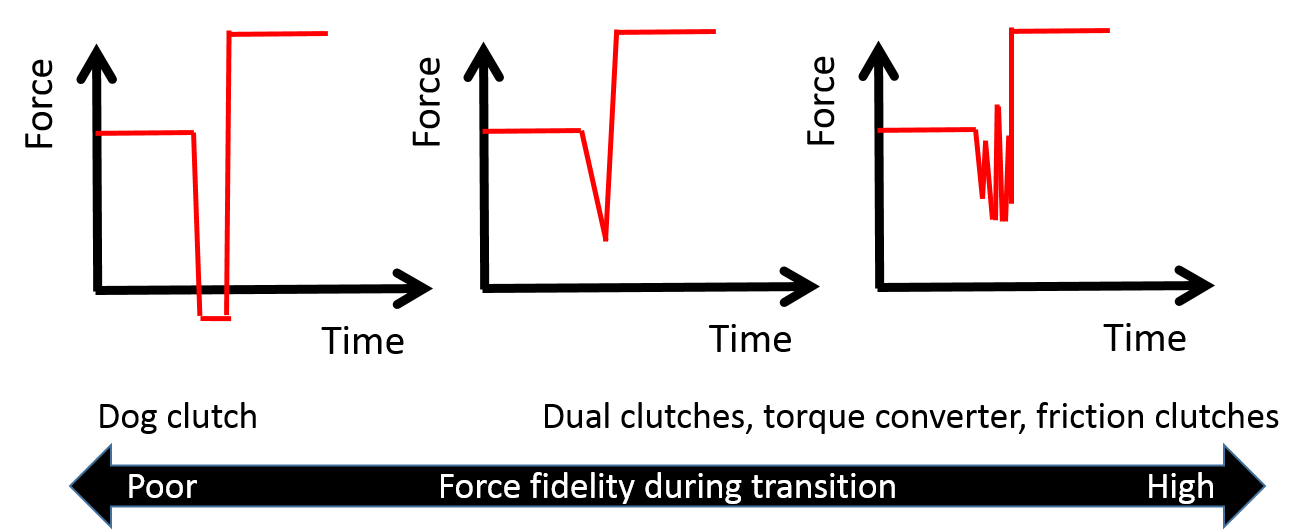
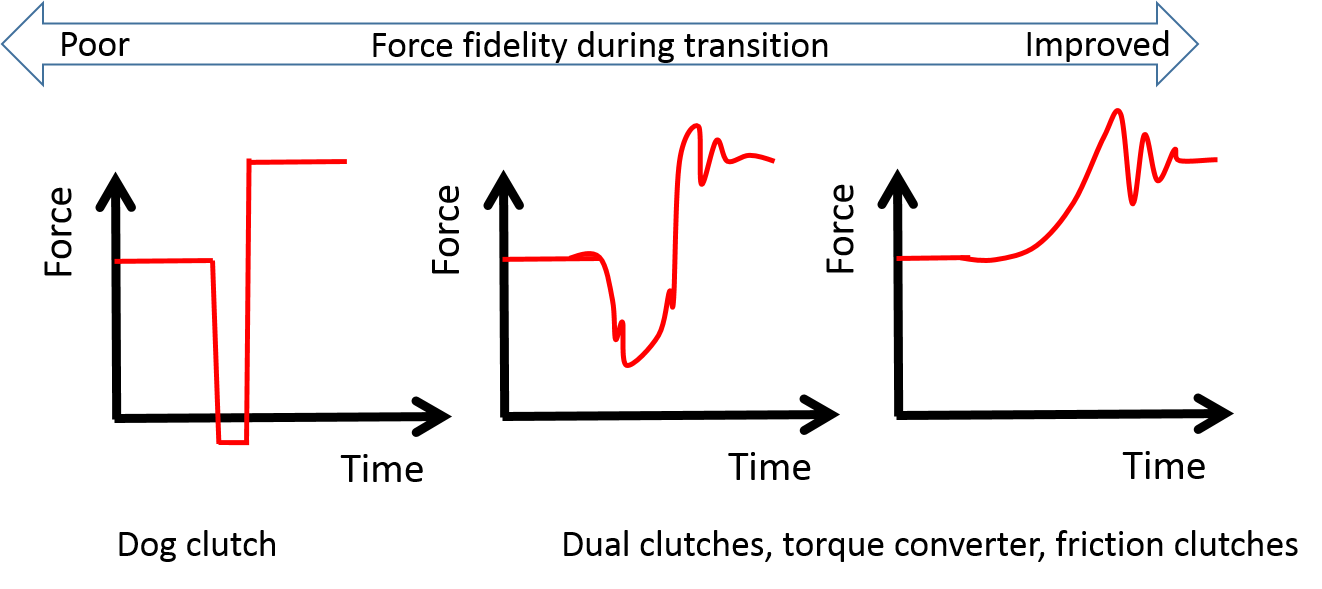
act research

diff --git a/src/actuation.tex b/src/actuation.tex
@@ -36,49 +36,48 @@ It will be a significant breakthrough if a type of multiple speed transmission c
 
 
 
-\section{Actuator Research}
+\section{Actuator and Powertrain Research}
 \label{sec:actres}
 
 \paragraph{Classical Actuators} Traditional robots generally use actuators that behave as displacement-sources because of their high intrinsic impedance. These include geared EM motors and hydraulics cylinders. Using a force sensor, it is possible to control the output force with this type of actuators, but the bandwidth is rather limited. To guarantee the stability of the force-feedback scheme only half the intrinsic inertia can be canceled \cite{hogan_impedance_2004}. Since 70's, roboticists have been attempting to build actuators that can behave naturally as a force-source such as series-elastic actuators, pneumatic cylinder and air-muscles \cite{hanafusa_stable_1977}\cite{pratt_series_1995}. However, because of the physical limitation of compliant transmission materials, the achievable bandwidth is limited and precise position control is hardly achievable. Direct drive EM actuators are the best force-source actuators with high fidelity, high bandwidth, and have been used for high-speed robots \cite{asada_direct-drive_1987} and more recently small legged robots \cite{kenneally_design_2016}. However, the very low force density \cite{hollerbach_comparative_1992} and low efficiency at low speeds make them impractical for most mobile robot applications, just holding a payload with static torques require continuous currents in the motors leading to a large energy consumption even though no mechanical work is done. 
 
-Regarding power-throughput, as discussed before and illustrated at Fig. \ref{fig:emcurve}, electromagnetic actuators are typically characterized by a flat force curve for most of their range of speed, leading to maximum power been only available at high velocity \cite{girard_two-speed_2015}. Fluidic actuator are typically characterized by a force curves droping quadratically with velocity (related to pressure losses in valves orifices), as illustrated at Fig. \ref{fig:fluidcurve}. All in all, EM and fluidic actuators cannot transmits their maximum power over their full range of speed, and variable transmission can make their power be available on a much wider range of speed.
+Regarding power-throughput, as briefly discussed before and illustrated at Fig. \ref{fig:emcurve}, electromagnetic actuators are typically characterized by a flat force curve for most of their range of speed, leading to maximum power been only available at high velocity \cite{girard_two-speed_2015}. Fluidic actuator are typically characterized by a force curves droping quadratically with velocity (related to pressure losses in valves orifices), as illustrated at Fig. \ref{fig:fluidcurve}. All in all, EM and fluidic actuators are not perfect power sources and could benefit from using variable transmissions to have their maximum power available on a much wider range of speed.
 
 \begin{figure}[htb]
         \centering
 				\subfloat[Electromagnetic transducer]{
-				\includegraphics[width=0.40\textwidth]{EM_curve.png}
+				\includegraphics[width=0.35\textwidth]{EM_curve.png}
 				\label{fig:emcurve}
 				}
         \subfloat[Fluidic transducer]{
-				\includegraphics[width=0.40\textwidth]{fluid_curve.png}
+				\includegraphics[width=0.35\textwidth]{fluid_curve.png}
 				\label{fig:fluidcurve}
 				}
         \caption{Typical force-speed curve of actuators}\label{fig:powercurves}
 \end{figure}
 
-Some advance electric motor systems can extend their operation at high-speed by weakening the magnetic flux. Such motors can thus transmit their maximum power over a wider range of speed than basic DC motors, see Fig. \ref{fig:EM_fluxweakening}. However, this clever electromagnetic scheme cannot go around the fundamental force saturation at low-speed, which is limited by material properties. Hence, there is still a big advantage of using multiple gear-ratio for this kind of advance motor (see Fig. \ref{fig:EM_two}). 
+Some advance electric motor systems can extend their operation at high-speed by weakening the magnetic flux. Such motors can thus transmit their maximum power over a wider range of speed than basic DC motors, see Fig. \ref{fig:EM_fluxweakening}. However, this clever electromagnetic scheme cannot go around the fundamental force saturation at low-speed, which is limited by material properties \cite{hollerbach_comparative_1992}. Hence, there is still a big advantage of using multiple gear-ratio even for motor using advance flux control schemes, see Fig. \ref{fig:EM_two}. 
 
 \begin{figure}[htp]
 	\centering
-		\includegraphics[width=0.6\textwidth]{EM_fluxweakening.png}
+		\includegraphics[width=0.5\textwidth]{EM_fluxweakening.png}
 	\caption{Force-speed curve of electric motor using flux weakening }
 	\label{fig:EM_fluxweakening}
 \end{figure}
 
 \begin{figure}[htp]
 	\centering
-		\includegraphics[width=0.6\textwidth]{EM_two.png}
-	\caption{Force-speed curve of two-speed electric motor using flux weakening}
+		\includegraphics[width=0.5\textwidth]{EM_two.png}
+	\caption{Force-speed curve of an electric motor using flux weakening with two different reduction ratio}
 	\label{fig:EM_two}
 \end{figure}
-
 
 
 \paragraph{Variable Impedance Actuators} Force-source type of actuator are desirable for interaction tasks, for instance grasping, manipulation and locomotion, since the interaction force can be controlled. On the other hand, actuators with non-back-drivable mechanisms have the advantage for pure position controlled tasks, disturbance rejection and statically bearing large load without any power consumption. Since both small and large intrinsic impedances are advantageous in different scenario, several group have developed variable intrinsic impedance actuators, such as based on variable stiffness spring \cite{tonietti_design_2005}, antagonist non-linear devices \cite{koganezawa_antagonistic_2006}, a series-compliance that can be locked with a brake \cite{leach_linear_2012} and dual-motors in serial configuration \cite{kim_serial-type_2010}. Furthermore, so-called macro-micro actuators, can improve the bandwidth of force-source type of actuators by exploiting the high-bandwidth of a small actuator in parallel, allowing for wider-range impedance control and improved position control \cite{morrell_parallel-coupled_1998}. Regarding power throughput however, all these technologies are still limited by force-speed characteristic of their main transducer (generally a geared electric motor). Hence, those designs do not solve the problem of efficient power transmission over a wide range of speed.
 
 \paragraph{Vehicle Powertrains} While the actuator work in robotics have been focused on impedance and bandwidth issues, in the powertrain field the torque-speed matching issue is predominant, since power density and efficiency are critical for mobile systems. The idea of using multiple gear ratios with electric motors has been explored occasionally, to improve efficiency and power density \cite{mckeegan_antonovs_2011}. A twin motor configuration has been proposed for smooth gear shifting, where each motor shifts at a different timing \cite{bologna_electric_2014}. Also, a dual motor configuration using a planetary coupling and non-back-drivable worm-gears was proposed for a mobile robot powertrain \cite{lee_new_2012}. Multiple gear-ratio powertrains provide effective solutions for torque-speed matching, but are not adapted to the robotic context. First because powertrain shift mecanism are not adapted to make gear shifts while interacting with dynamic environments, and second because they are designed to make shift between ratio much closer to one another than what is investigated in this thesis.
 
-Fig. \ref{fig:forcefidelity} shows typical transmitted force profile during gear-shifts with powertrain shifting mechanisms. The simplest manual transmissions using dog clutch do not transmit torque at all during a shift, while more advance systems such as dual-clutch transmission can supply torque during the transition, but with poor fidelity compared to what is typically expected from an actuator in a robotic context. For instance, with a state-of-the-art two-speed dual-clutch transmission for electric car \cite{walker_powertrain_2017}, experimental results shows output torque oscillations with amplitudes of about 100\% the nominal value during a period of 500 ms. However, this torque deviation only lead to an undesirable car acceleration of about 0.05 g, and the effect is barely noticeable on the output velocity curve. As illustrated at Fig. \ref{fig:typeloads}, force fidelity requirement for vehicle powertrain are not very important since the load is always a very large vehicle inertia which will act as a very strong low-pass filter. However, robotic system can be interacting with all kind of load without filtering characteristics. For instance, for a robot fighting a gravitational load or compressing a spring, it would be catastrophic if the force drop during a gear-shift. The output needs to be always fully under control in those situations. 
+Fig. \ref{fig:forcefidelity} shows typical transmitted force profile during gear-shifts with powertrain shifting mechanisms. The simplest manual transmissions using dog clutch do not transmit torque at all during a shift, while more advance systems such as dual-clutch transmission can supply torque during the transition, the fidelity is low compared to what is typically expected from an actuator in a robotic context. For instance, with a state-of-the-art two-speed dual-clutch transmission for an electric car \cite{walker_powertrain_2017}, experimental results shows output torque oscillations with amplitudes of about 100\% the nominal value during a period of 500 ms. However, this torque deviation only lead to an undesirable car acceleration of about 0.05 g, and the effect is barely noticeable on the output velocity curve. As illustrated at Fig. \ref{fig:typeloads}, force fidelity requirement for vehicle powertrain are not very severe since the load is always a very large vehicle inertia which will act as a very strong low-pass filter. However, robotic system can be interacting with all kind of load without filtering characteristics. For instance, for a robot fighting a gravitational load or compressing a spring, it would be catastrophic if the force drop during a gear-shift. The output needs to be always fully under control in those situations. 
 
 \begin{figure}[htp]
 	\centering
@@ -94,25 +93,32 @@ Fig. \ref{fig:forcefidelity} shows typical transmitted force profile during gear
 	\label{fig:typeloads}
 \end{figure}
 
-One other aspect is that power-train gear-shifting mechanism are not adapted to make transition between drastically different gear-ratios. For instance, for dual-clutch system the ratio step between adjacent gear ratios should not exceed 1.8 to avoid shift difficulties \cite{gao_gear_2015}. Furthermore, from a design perspective, advance power-train systems are very complex machines (wet clutches, dry clutches, synchronizers, etc) leading to manufacturing, maintenance, wear and reliability challenges. Adding such systems in all the many actuators of a robotic system might be especially hard to justify when balancing all those practical issues. All-in-all, power-train gear-shifting technologies cannot be applied directly to general purpose robotic system.
+One other aspect is that power-train gear-shifting mechanism are not adapted to make transition between drastically different gear-ratios. For instance, for dual-clutch system the ratio step between adjacent gear ratios should not exceed 1.8 to avoid shift difficulties \cite{gao_gear_2015}. Furthermore, from a design perspective, advance power-train systems are very complex machines (wet clutches, dry clutches, synchronizers, etc) leading to manufacturing, maintenance, wear and reliability challenges. Adding such systems in all the many actuators of a robotic system might be especially hard to justify when balancing all those practical issues. All-in-all, power-train gear-shifting technologies are not adapted directly for use in a general purpose robotic actuator.
 
 %Continuously variable transmission (CVT) also are limited in term of total variation range, the variation from maximum to minimum ratio for those system are in the range of a factor of 3. 
 
 \paragraph{Variable Gear-ratio Actuators} 
-While variable gear-ratio actuators (VGA) have been studied extensively for automobile power-trains, they have not yet been fully investigated in robotics, despite significant potential gains. A few instance of research in that direction were made for legged locomotion \cite{hirose_design_1991}, grasping robotic hands \cite{shin_robot_2012} and actuators \cite{hirose_development_1999} \cite{byeong-sang_kim_improved_2007}\cite{tahara_high-backdrivable_2011}. While those works are highly promising, no gear shifting methodology for generic robot actuator in arbitrary dynamic situation are proposed.
+While variable gear-ratio actuators (VGA) have been studied extensively for automobile power-trains, they have not yet been fully investigated in robotics, despite significant potential gains. A few instance of research in that direction were made for legged locomotion \cite{hirose_design_1991}, grasping robotic hands \cite{shin_robot_2012} and actuators \cite{hirose_development_1999} \cite{byeong-sang_kim_improved_2007}\cite{tahara_high-backdrivable_2011}. While those works are promising, no gear shifting methodology for generic robot actuator in arbitrary dynamic situation are proposed.
 
 
 \paragraph{Continuously variable transmissions (CVT)} 
 
-Continuously variable transmission have been used sporadically for car power-trains. Most common design are based on belts with variable-diameter pulley or toroidal. Drawbacks compared to regular transmission include higher transmission losses and complex dynamics \cite{srivastava_review_2009}. Moreover, typical CVT total ratio variation are limited to about a factor 3 (for instance 1:1 to 3:1), which makes them unadapted for large ratio variation. Some design were proposed for infinite range variation, often called IVT. For instance the company Torotrack claim to have a CVT that can reach an effective gear-ratio of zero \cite{schoolcraft_gear_2011}. However, since those designs rely on friction, maximum transmitted torque is limited and the transmission systems are complex and very large, which inhibit the potential use in robotic applications.  
+Continuously variable transmission have been used sporadically for car power-trains. Most common design are based on belts with variable-diameter pulley or toroidal disk. Drawbacks compared to regular transmission include higher transmission losses and complex dynamics \cite{srivastava_review_2009}. Moreover, typical CVT total ratio variation are limited to a factor 4x (for instance 0.5:1 to 2:1), which makes them unadapted for very large ratio variation [TODO find a good CVT review article]. Some designs have been proposed for infinite range variation, often called IVT. For instance the company Torotrack claim to have a CVT that can reach an effective gear-ratio of zero \cite{schoolcraft_gear_2011}. However, since those designs rely on friction, maximum transmitted torque is limited and the transmission systems are complex and very large, which inhibit the potential use in robotic applications.
 
 In the actuator field, lever mechanisms with variable attachment points that leads to a very wide range of effective transmission ratio \cite{tahara_high-backdrivable_2011}, even infinite range when using a singular configurations \cite{jafari_new_2014}, have been proposed. However, this type of CVT implementation limits drastically the motion range, thus cannot be used for general purpose actuator transmission. In the literature, those mechanisms are used in VSA between the spring and the output, where their limited motion range is not an issue. 
 
-Many clever mechanisms have proposed to be used as CVT. However, all design have some major drawback regarding either: total variation range, constraints on output motion, ratio-variation speed, allowable shift conditions, efficiency, etc. The best indication of this is the automotive industry. On paper, there is a huge incentive to use CVT with internal combustion engine in because of their narrow peak of power and efficiency. However, despite a century of development in one of the largest industry, transmissions using many discrete gear-ratio are still the most widely adopted solution. Even with the recent effort to improve fuel economy, the trend in the industry is to use automatic transmissions with a large number of discrete gear \cite{phillips_10-speed_2010}\cite{goleski_multi-speed_2015}. Furthermore, compared to the automotive field, the incentive of using CVT in robotics is diminished because of more flexible torque curves of electric motor and wider desired ratio range. Hence, all the limitations of CVT make this technology unadapted for general purpose robotic actuators. However, a breakthrough in term of IVT technology would be very interesting for the field of robotics.
+Many clever mechanisms have proposed to be used as CVT. However, all design have some major drawback regarding either: total variation range, constraints on output motion, ratio-variation speed, allowable shift conditions, efficiency, etc. The best indication of this is the automotive industry. On paper, there is a huge incentive to use CVT with internal combustion engine in because of their narrow peak of power and efficiency. However, despite a century of development in one of the largest industry, transmissions using many discrete gear-ratio are still the most widely adopted solution. Even with the recent effort to improve fuel economy, the trend in the industry is to use automatic transmissions with a large number of discrete gear \cite{phillips_10-speed_2010}\cite{goleski_multi-speed_2015}. Furthermore, compared to the automotive field, the incentive of using CVT in robotics is diminished because of more flexible torque curves of electric motor and the wider desired range of ratios. Hence, all the limitations of CVT make this technology unadapted for general purpose robotic actuators. However, a breakthrough in term of IVT technology would be very interesting for the field of robotics.
 
 \subsection{Novel Contribution}
 %\paragraph{Novel Contribution} 
-The presented actuator in this chapter, address the issue of improving available power and efficiency over a wide range of operating speeds, which has rarely been addressed in the robotics literature. Also, the proposed multiple gear-ratios actuator is an alternative approach to impedance variation that can achieve many order-of-magnitude changes. The main novel contribution is the methodology for gear shifting that is adapted to a robotics context. A mechanical architecture where two motors are coupled using a 3-ports gearbox and a brake is used in conjunction with a novel controller to provide full control of the output during gear shifting, which is a key enabling feature for robotic applications.
+The presented DSDM actuator in this chapter, address the issue of improving available power and efficiency over a wide range of operating speeds, which has rarely been addressed in the robotics literature. Also, the actuator enable order-of-magnitude variation of the output impedance, which is also a highly desirable feature.  \textbf{The main novel contribution is the methodology for gear shifting between two very different gear-ratios seamlessly even in highly dynamic situations, which is a key enabling feature for robotic applications.} A mechanical architecture where two motors are coupled using a 3-ports gearbox and a brake is used in conjunction with novel control scheme to provide full control of the output during gear shifting. The mechanical architecture is not new by itself as similar architectures (using planetary and brakes) are used in hybrid car powertrains, automatic transmissions and special actuators. However, here this architecture is used in conjunction with a novel controller to provide full control of the output during gear shifting. A preliminary version of this work have been published in \cite{girard_two-speed_2015}, but this chapter include a more throughout analysis and new algorithms for fast gear-shift even during impacts. 
+
+To the knowledge of the author, no other technology can meet all those requirements:
+\begin{itemize}
+	\item Fast shifting between order-of-magnitude different gear-ratios
+	\item High-fidelity control of the output during transitions
+	\item Simple mechanical design enabling small and practical implementations
+\end{itemize}
 
 \subsection{Related works}
 %\paragraph{Other dual-motor actuators} 
@@ -129,7 +135,7 @@ Many dual-motor actuators have been proposed in the literature \cite{tagliamonte
         \caption{Dual-motor architectures}\label{fig:dualmotoractuators}
 \end{figure}
 %
-Fig. \ref{fig:variableimpedanceactuators} shows a generalized bond-graph actuator model illustrating the conceptual differences between many approaches. Variable stiffness actuators use a variable transmission placed between a compliant element and the load, where it influence the reflected output stiffness but not the steady-state power-transmission characteristics. Macro-micro actuators have a fixed reflected output stiffness, but the advantage is that the additional direct-drive motor on the output makes possible to emulate a wide-range of output impedance. The proposed VGA actuators in this thesis is fundamentally different, it is the transmission between the motor and the load that is varied, like in a car transmission. The main advantage is regarding efficient power transmission, enabling small motors to make full use of their maximum power at high speed and at low speed. Macro-micro actuators and VSA have no advantages over a regular electric motor regarding the range of speed at which power can be transmitted. On the other hand, macro-micro and VSA have the ability to store and release potential energy in their compliant element, which is not the case with VGA. Regarding, natural reflected impedance, both VSA and VGA have the ability to change it. One fundamental difference is that VGA can only attenuate or amplify the natural inertia and friction of the rotor, while VSA can only modify its reflected stiffness. 
+Fig. \ref{fig:variableimpedanceactuators} shows a generalized bond-graph actuator model illustrating the conceptual differences between many approaches. Variable stiffness actuators use a variable transmission placed between a compliant element and the load, where it influence the reflected output stiffness but not the steady-state power-transmission characteristics. Macro-micro actuators have a fixed reflected output stiffness, but the advantage is that the additional direct-drive motor on the output makes possible to emulate a wide-range of output impedance. \textbf{The proposed VGA actuators in this thesis are fundamentally different, it is the transmission between the motor and the load that is varied, like in a car transmission.} The main advantage of VGA is regarding efficient power transmission, enabling small motors to make full use of their maximum power at high speed and at low speed. Macro-micro actuators and VSA have no advantages over a regular electric motor regarding the range of speed at which power can be transmitted. On the other hand, macro-micro and VSA have the ability to store and release potential energy in their compliant element, which is not the case with VGA. Regarding, natural reflected impedance, both VSA and VGA have the ability to change it. One fundamental difference is that VGA can only attenuate or amplify the natural inertia and friction of the rotor, while VSA can only modify its reflected stiffness. 
 
 \begin{figure}[htp]
 	\centering
@@ -138,8 +144,10 @@ Fig. \ref{fig:variableimpedanceactuators} shows a generalized bond-graph actuato
 	\label{fig:variableimpedanceactuators}
 \end{figure}
 
-Regarding the proposed dual-motor architecture, similar architectures are used in hybrid car powertrains, automatic transmissions and special actuators, but not in a the context of addressing gear shifting between two highly different gear-ratio. Here this architecture is used in conjunction with a novel controller to provide full control of the output during gear shifting. A preliminary version of this work have been published in \cite{girard_two-speed_2015}, but this chapter include a more throughout analysis and new algorithms for fast gear-shift even during impacts. 
 
+
+
+%%%%%%%%%%%%%%%%%%%%%%%%%%%%%%%%%%%%%%%%%%%%%%%%%%%%%%%%%%%%%%%%%%%%%%%%%%%%%%%%%%%%%%%%%%%%%%%%%%%%%%%%%%%%%%%%%%%%%%
 
 \newpage
 
